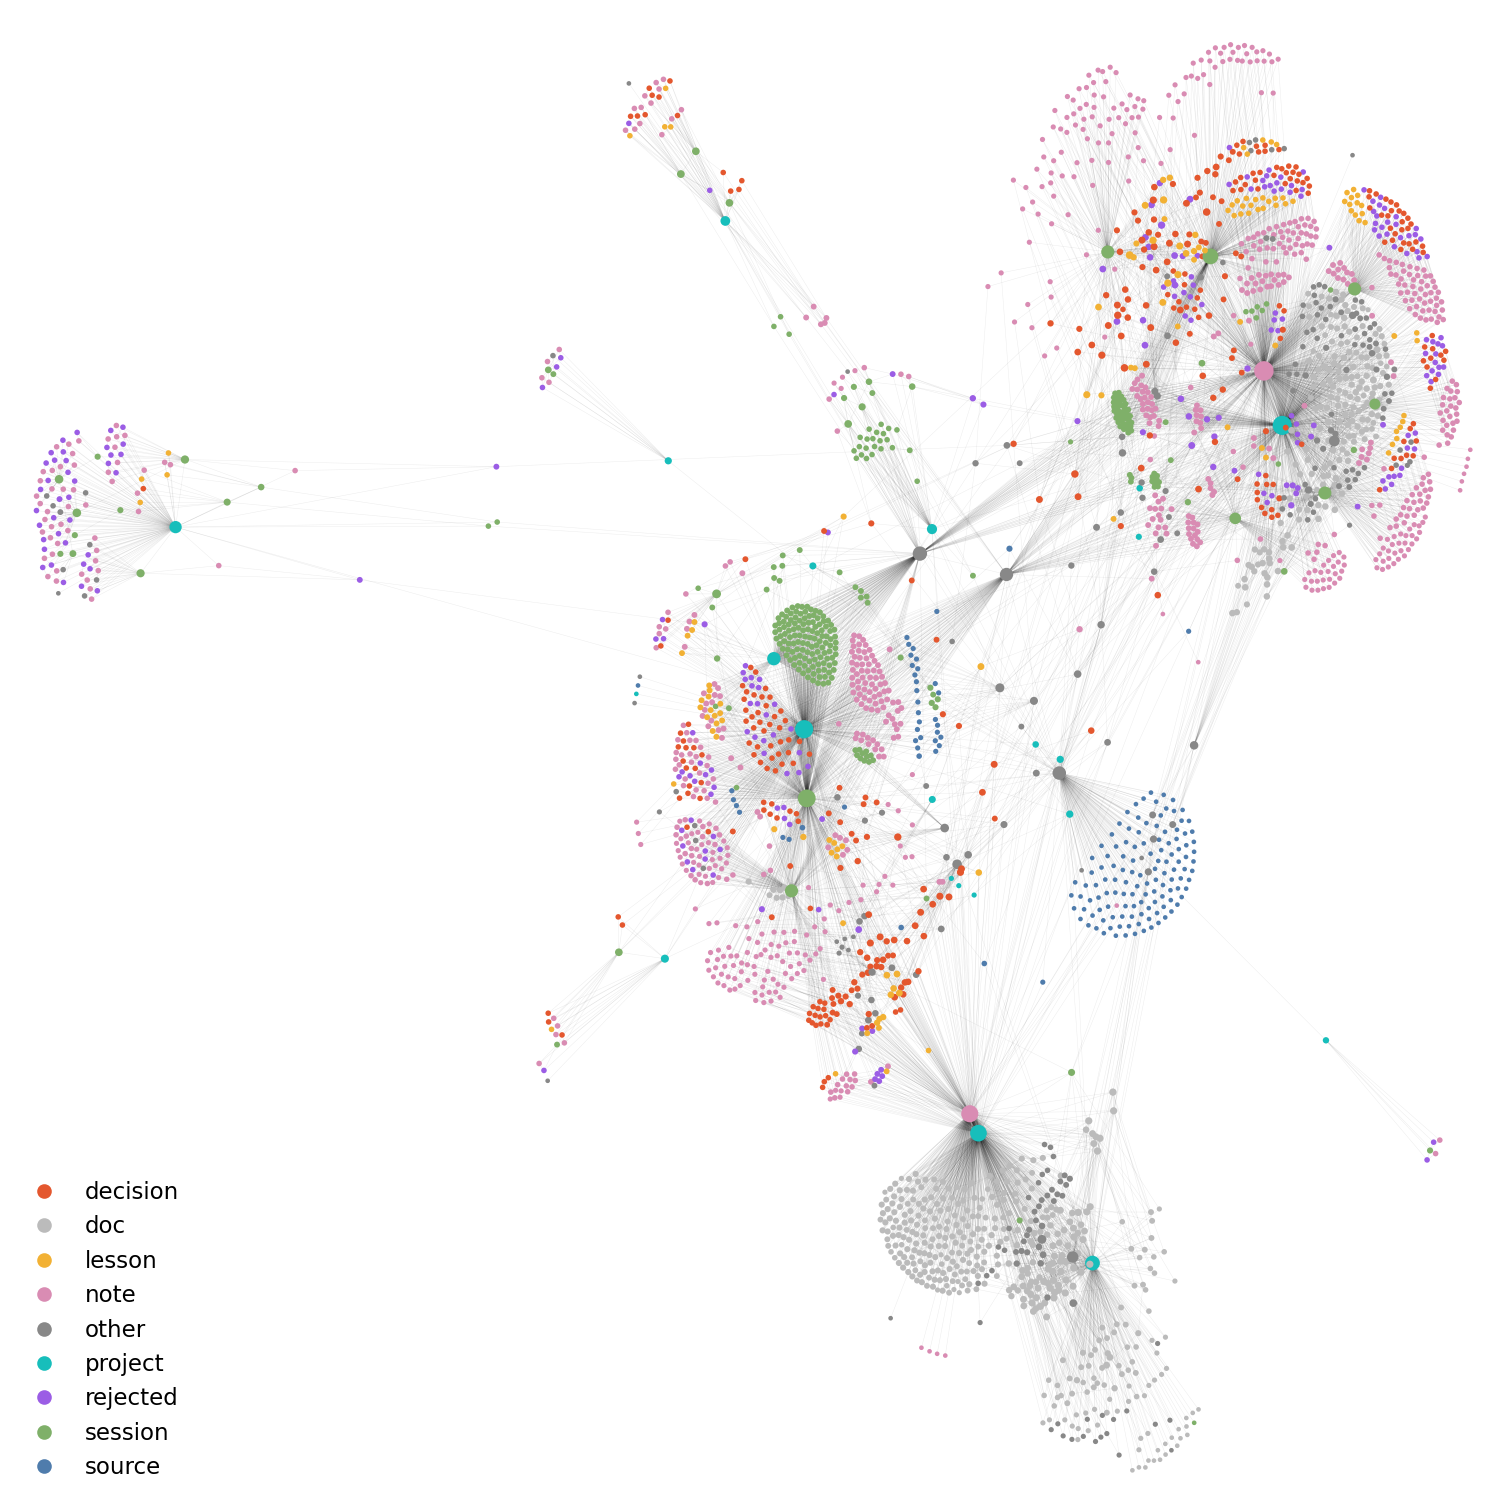
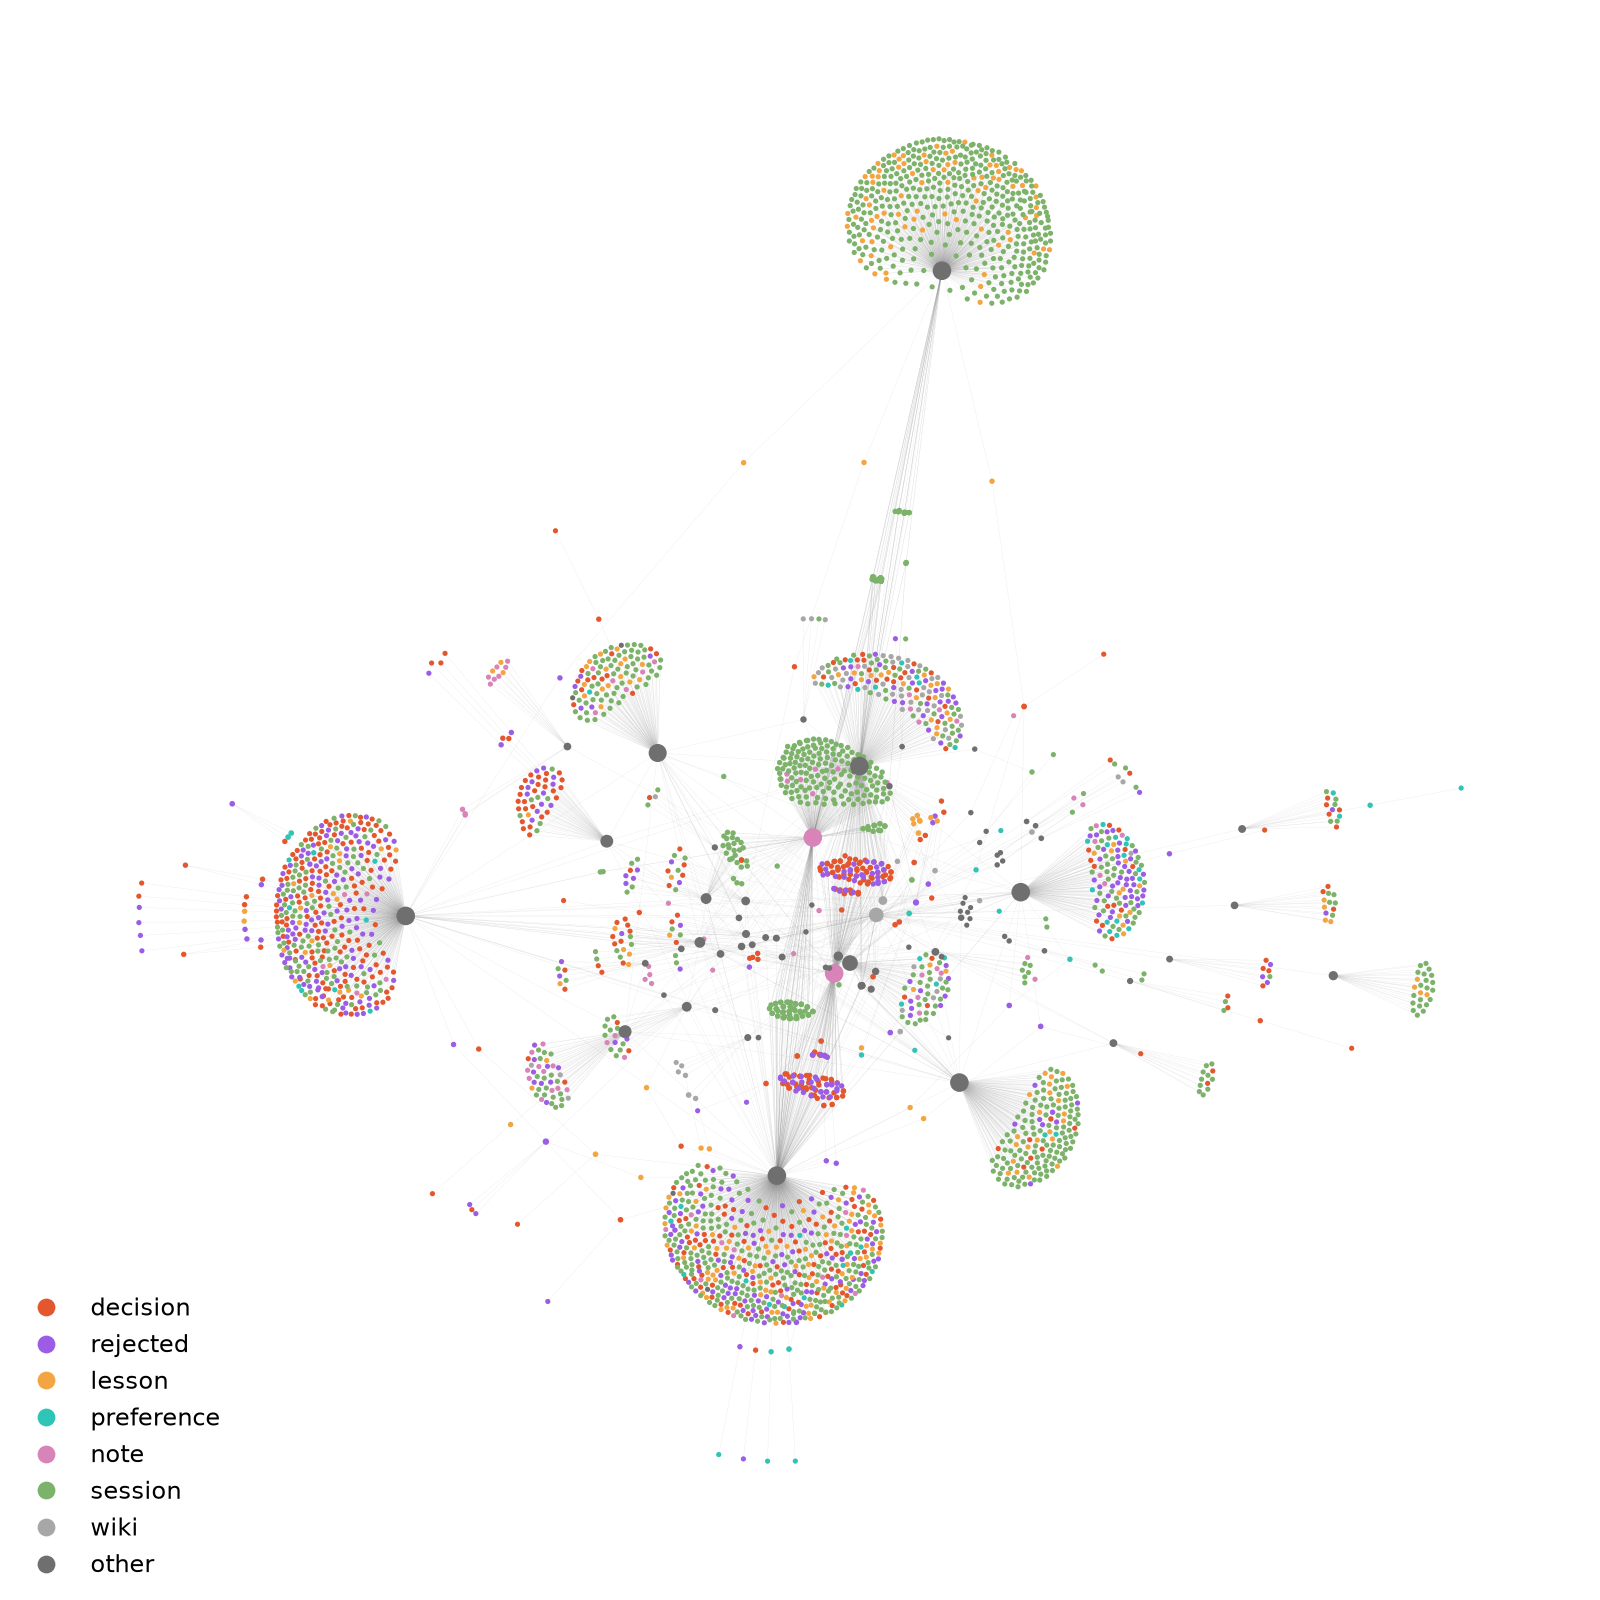
docs: new screenshots from a demo project, a session-start view and a fresh memory graph
The terminal shots come from a demo todo-app history run through the current CLI: search and zoom, a replaced decision with its REPLACED line, and what the session-start hook gives a new session. The graph is the author's vault today (3,003 linked notes), drawn with no labels.

diff --git a/README.md b/README.md
@@ -6,7 +6,9 @@ A new agent session starts with no memory of the last one, so you brief it again
 
 It works with Claude Code and Codex. The command-line tool is `memrove`.
 
-![Memory graph of a real install, labels removed](docs/graph.png)
+![Link graph of the author's memory: 3,003 notes and 3,783 links, labels removed](docs/graph.png)
+
+<sub>The author's own memory: 3,003 linked notes, labels removed. Each dot is a note, its colour is its kind, and a bigger dot has more links.</sub>
 
 ## What you get
 
@@ -34,28 +36,30 @@ The install writes into the vault only. Add `--global` to connect memrove to eve
 
 ## Use
 
-The examples use the `memrove` command. Without `--global`, type `python3 ~/memory/memrove.py` in its place.
+The examples come from a demo project, a todo app, over two weeks of sessions. They use the `memrove` command. Without `--global`, type `python3 ~/memory/memrove.py` in its place.
 
-Save a decision, then find it in a later session:
+**A new session starts with a short note.** It holds how to search, the reading rules and the handoff card of the last session. Nothing else is loaded until the agent asks for it.
 
-```sh
-memrove remember "The API uses SQLite, not Postgres" --kind decision --why "one file, no server to operate"
-memrove search "sqlite postgres"
-```
+![What a new Claude Code session receives at start: the usage note and the last handoff card](docs/session-start.png)
 
-```
-rec:obs-40e269a159a22f962865f4f9|2026-11-17|decision|The API uses SQLite, not Postgres
-```
-
-![memrove search, then zoom, finds a past decision in a demo vault](docs/search-zoom.png)
-
-Replace it when the decision changes. The old record is kept and marked:
+**The agent searches when it needs the past.** One query returns chat messages, saved records and project docs. `zoom` opens a hit down to the original message.
 
 ```sh
-memrove remember "The API moved to Postgres" --kind decision --why "two writers now" --replaces obs-40e269
+memrove search "websockets sync"
+memrove zoom 4 1
 ```
 
-![memrove remember with a replaced record](docs/records.png)
+![memrove search returns messages, records and docs; zoom opens the original message](docs/search-zoom.png)
+
+**Decisions are saved with their reason, and replaced when they change.** The old record stays as history and says what replaced it:
+
+```sh
+memrove remember "Sync over plain REST every 30 seconds, no websockets" --kind decision --why "the hosting plan has no sticky sessions"
+memrove remember "Sync over websockets with a 5 second REST fallback" --kind decision --why "hosting moved to a plan with sticky sessions" --replaces obs-ffc304
+memrove show obs-ffc304
+```
+
+![memrove show on a replaced decision: the REPLACED line comes first](docs/records.png)
 
 | Command | What it does |
 | --- | --- |
@@ -90,7 +94,7 @@ flowchart LR
 
 1. **Hooks** in Claude Code and Codex write each message to the chat log. Adapters for Hermes, OpenCode and OMP are in `template/.claude/scripts/`.
 2. **The summary tree** is built over the log by a small model (Claude Haiku, through your Claude Code login). Set `MEMROVE_NO_LLM=1` to turn the Haiku calls off. Search and records work without them.
-3. **Typed records** are Markdown files in the vault. Links between them are `[[links]]`, so Obsidian's graph view or `memrove graph` shows the memory.
+3. **Typed records** are Markdown files in the vault. Links between them are `[[links]]`, so Obsidian's graph view shows the memory. `memrove graph neighbors <id>` lists the links of one record.
 4. **The agent reads** through the CLI. The `mods/memrove-chat` plugin also gives Claude Code the model tools `zoom`, `date` and `project` (`claude --plugin-dir mods/memrove-chat`).
 
 A record can cite the message it came from, and the code checks the quote before it saves. A reader other than Claude Code, Codex or your own terminal sees only the records its tier allows (`MEMROVE_READER`).
